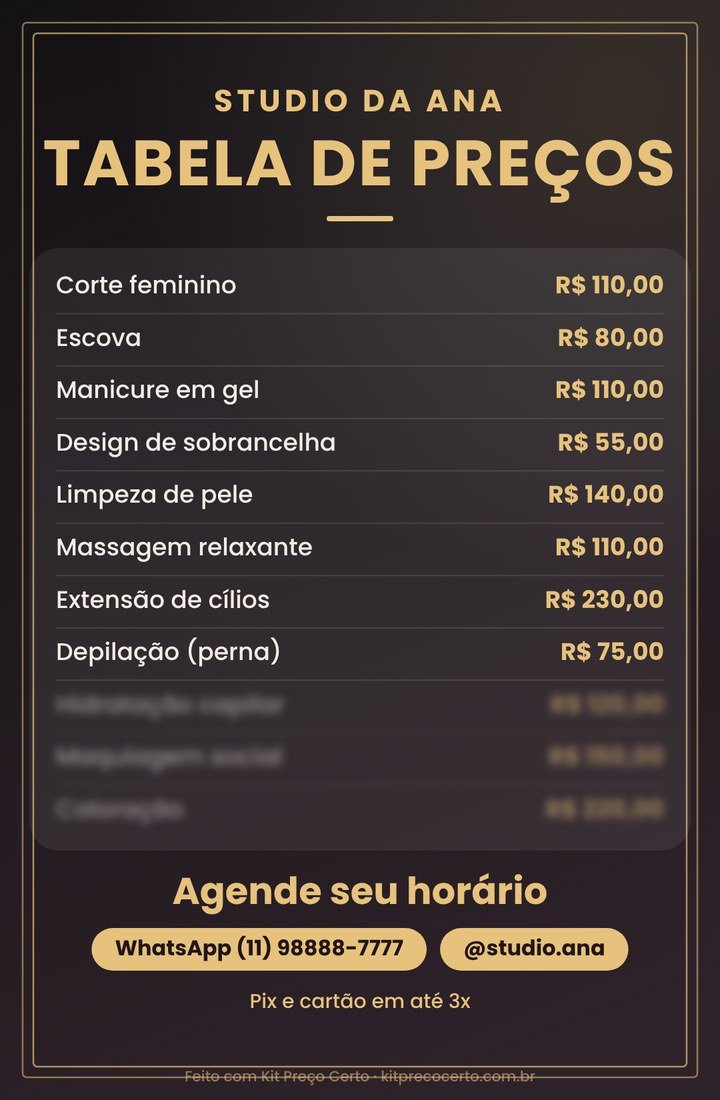
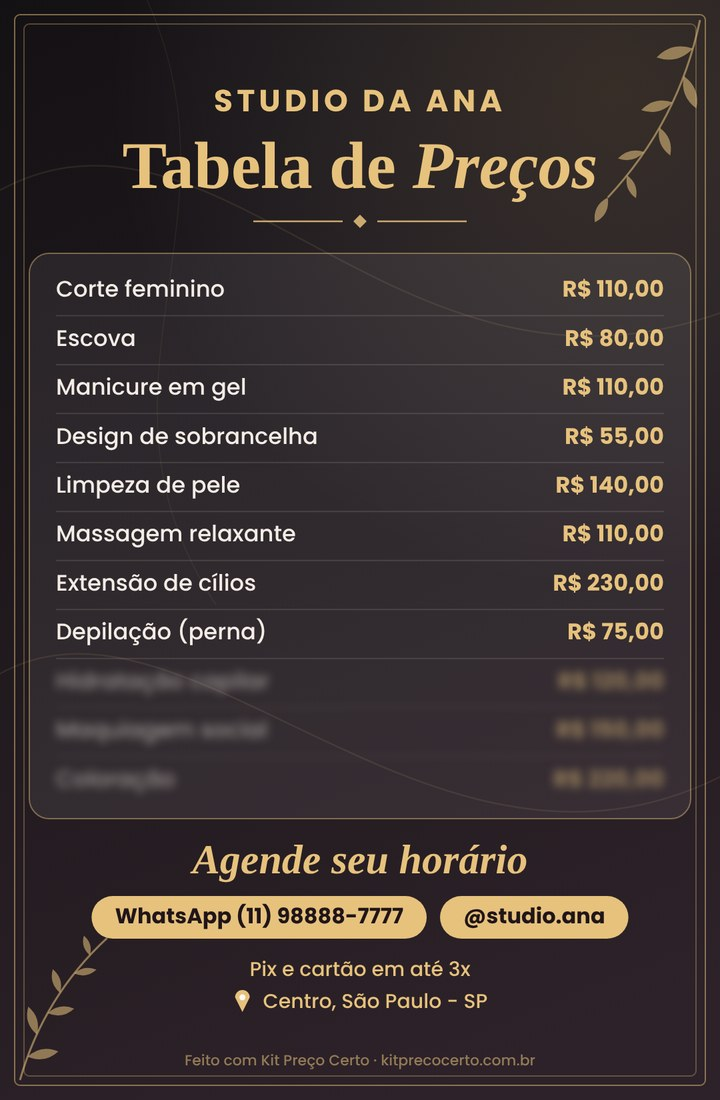
Tabela de preços: estilo elegante (título serifado, moldura fina, folhas), melhor com poucos serviços; imagens de exemplo regeneradas
Claude-Session: https://claude.ai/code/session_01VVXSWQenri3WwETC67snQx

Changed region(s): [[0.0, 0.0, 1.0, 0.9891]]

diff --git a/calculadora.html b/calculadora.html
@@ -6,7 +6,7 @@
 <meta name="theme-color" content="#C2185B">
 <link rel="icon" type="image/png" href="favicon.png"><link rel="apple-touch-icon" href="apple-touch-icon.png">
 <link rel="preconnect" href="https://fonts.googleapis.com"><link rel="preconnect" href="https://fonts.gstatic.com" crossorigin>
-<link href="https://fonts.googleapis.com/css2?family=Fredoka:wght@600;700&family=Poppins:wght@400;500;600;700;800&family=Dancing+Script:wght@700&display=swap" rel="stylesheet">
+<link href="https://fonts.googleapis.com/css2?family=Fredoka:wght@600;700&family=Poppins:wght@400;500;600;700;800&family=Dancing+Script:wght@700&family=Playfair+Display:ital,wght@0,500;0,600;0,700;1,500;1,600&display=swap" rel="stylesheet">
 <style>
 :root{--magenta:#C2185B;--magenta-d:#9C1049;--pink:#E91E78;--rose:#F4B6CC;--blush:#FCE9F0;--nude:#F8EDE6;--cream:#FFFAF7;--gold:#C9A24B;--gold-l:#F3E3B6;--ink:#3A0A26;--mut:#7A4A62;--line:#F0CFDB;--ok:#1b7a4a;--bad:#B00020;--yellow:#FFF3C4}
 *{box-sizing:border-box}
@@ -432,13 +432,19 @@ function CFG(){if(!S.cfg)S.cfg={t:'rosa',f:'f',ig:'',zap:'',ad:'',frase:'',pag:'
 function fitFont(g,txt,weight,size,maxW,min,fam){var f=size;g.font=weight+' '+f+'px '+fam;while(f>min&&g.measureText(txt).width>maxW){f-=2;g.font=weight+' '+f+'px '+fam;}return f;}
 function ellip(g,txt,maxW){if(g.measureText(txt).width<=maxW)return txt;while(txt.length>3&&g.measureText(txt+'…').width>maxW)txt=txt.slice(0,-1);return txt.trim()+'…';}
 function trk(g,px){if('letterSpacing' in g)g.letterSpacing=px+'px';}
-function deco(g,T,W,H){var d=T.deco,a=T.accent;g.save();
- if(d==='circles'){g.globalAlpha=.4;g.fillStyle='#fff';g.beginPath();g.arc(W*.94,H*.05,W*.28,0,6.2832);g.fill();g.globalAlpha=.55;g.strokeStyle=a;g.lineWidth=3;g.beginPath();g.arc(W*.05,H*.95,W*.17,0,6.2832);g.stroke();}
- else if(d==='frame'){g.globalAlpha=.6;g.strokeStyle=a;g.lineWidth=3;rr(g,34,34,W-68,H-68,30);g.stroke();}
- else if(d==='frame2'){g.globalAlpha=.55;g.strokeStyle=a;g.lineWidth=2.5;rr(g,34,34,W-68,H-68,6);g.stroke();g.globalAlpha=.7;rr(g,50,50,W-100,H-100,6);g.stroke();}
- else if(d==='duo'){g.fillStyle=a;g.globalAlpha=.16;g.beginPath();g.arc(W*.08,H*.06,W*.24,0,6.2832);g.fill();g.globalAlpha=.12;g.beginPath();g.arc(W*.2,H*.02,W*.2,0,6.2832);g.fill();g.globalAlpha=.14;g.beginPath();g.arc(W*.95,H*.96,W*.22,0,6.2832);g.fill();}
- else if(d==='arc'){g.fillStyle=a;g.globalAlpha=.16;g.beginPath();g.arc(W,H,W*.34,0,6.2832);g.fill();g.globalAlpha=.12;g.beginPath();g.arc(0,0,W*.26,0,6.2832);g.fill();}
- else if(d==='band'){g.fillStyle=a;g.globalAlpha=.18;g.fillRect(0,0,W,H*.05);g.globalAlpha=.35;g.fillRect(0,H*.05,W,5);g.globalAlpha=.18;g.fillRect(0,H*.95-5,W,5);g.fillRect(0,H*.95,W,H*.05);}
+function leaf(g,x,y,a,l,w){g.save();g.translate(x,y);g.rotate(a);g.beginPath();g.moveTo(0,0);g.quadraticCurveTo(l*.5,-w,l,0);g.quadraticCurveTo(l*.5,w,0,0);g.fill();g.restore();}
+function sprig(g,x,y,a,len){g.save();g.translate(x,y);g.rotate(a);g.lineWidth=3;g.beginPath();g.moveTo(0,0);g.quadraticCurveTo(len*.5,-len*.14,len,0);g.stroke();
+ for(var i=1;i<=6;i++){var t=i/7,px=len*t,py=-2*(1-t)*t*len*.14,sz=len*.2*(1-t*.45),sg=i%2?1:-1;leaf(g,px,py,sg*.85,sz,sz*.32);}
+ leaf(g,len,0,0,len*.14,len*.05);g.restore();}
+function deco(g,T,W,H){var a=T.accent,dark=(T.deco==='frame'||T.deco==='frame2');g.save();
+ g.lineWidth=2.5;g.strokeStyle=dark?a:'#fff';g.globalAlpha=dark?.10:.55;
+ g.beginPath();g.moveTo(-20,H*.18);g.bezierCurveTo(W*.3,H*.05,W*.55,H*.4,W+20,H*.28);g.stroke();
+ g.beginPath();g.moveTo(-20,H*.62);g.bezierCurveTo(W*.25,H*.5,W*.6,H*.85,W+20,H*.7);g.stroke();
+ g.lineWidth=1.5;g.globalAlpha*=.8;g.beginPath();g.moveTo(W*.2,-10);g.bezierCurveTo(W*.35,H*.2,W*.1,H*.35,W*.3,H*.55);g.stroke();
+ g.globalAlpha=.5;g.strokeStyle=a;g.lineWidth=2;rr(g,22,22,W-44,H-44,dark?8:26);g.stroke();
+ if(dark){g.globalAlpha=.3;rr(g,36,36,W-72,H-72,8);g.stroke();}
+ g.fillStyle=a;g.strokeStyle=a;g.globalAlpha=dark?.55:.4;
+ sprig(g,W-30,30,2.05,300);sprig(g,30,H-30,-1.02,250);
  g.restore();}
 function draw(l){
   var c=CFG(),T=THEMES[c.t]||THEMES.rosa,W=1080,H=c.f==='s'?1920:1350,PAD=64;
@@ -452,15 +458,18 @@ function draw(l){
     var sc=Math.max(2*r/LOGO.width,2*r/LOGO.height),iw=LOGO.width*sc,ih=LOGO.height*sc;g.drawImage(LOGO,cx-iw/2,cy-ih/2,iw,ih);g.restore();
     g.strokeStyle=T.accent;g.lineWidth=6;g.beginPath();g.arc(cx,cy,r,0,6.2832);g.stroke();y+=2*r+26;}
   if(S.studio){g.fillStyle=T.sub;var st=S.studio.toUpperCase(),fs0=fitFont(g,st,'600',H>1500?46:40,W-2*PAD,26,P);g.font='600 '+fs0+'px '+P;trk(g,6);g.fillText(st,W/2,y+fs0*.55);trk(g,0);y+=fs0+30;}
-  g.fillStyle=T.title;var tt='TABELA DE PREÇOS',tf=fitFont(g,tt,'800',H>1500?96:84,W-2*PAD,46,P);g.font='800 '+tf+'px '+P;trk(g,3);g.fillText(tt,W/2,y+tf*.5);trk(g,0);y+=tf+22;
-  g.fillStyle=T.accent;rr(g,W/2-50,y,100,8,4);g.fill();y+=46;
+  var SF='"Playfair Display", Georgia, serif',t1='Tabela de ',t2='Preços',tf=H>1500?100:88,maxT=W-2*PAD-20;
+  while(tf>48){g.font='600 '+tf+'px '+SF;var wa=g.measureText(t1).width;g.font='italic 600 '+tf+'px '+SF;if(wa+g.measureText(t2).width<=maxT)break;tf-=2;}
+  g.font='600 '+tf+'px '+SF;var w1=g.measureText(t1).width;g.font='italic 600 '+tf+'px '+SF;var w2=g.measureText(t2).width,tx=(W-w1-w2)/2;g.textAlign='left';
+  g.font='600 '+tf+'px '+SF;g.fillStyle=T.title;g.fillText(t1,tx,y+tf*.5);g.font='italic 600 '+tf+'px '+SF;g.fillStyle=T.accent;g.fillText(t2,tx+w1,y+tf*.5);g.textAlign='center';y+=tf+20;
+  g.save();g.strokeStyle=T.accent;g.fillStyle=T.accent;g.globalAlpha=.85;g.lineWidth=2.5;g.beginPath();g.moveTo(W/2-160,y+6);g.lineTo(W/2-26,y+6);g.moveTo(W/2+26,y+6);g.lineTo(W/2+160,y+6);g.stroke();g.beginPath();g.moveTo(W/2,y-4);g.lineTo(W/2+10,y+6);g.lineTo(W/2,y+16);g.lineTo(W/2-10,y+6);g.closePath();g.fill();g.restore();y+=52;
   // rodape (altura)
   var pills=[];if(c.zap)pills.push('WhatsApp '+c.zap);if(c.ig)pills.push(c.ig);
   var fh=44;if(c.frase)fh+=84;if(pills.length)fh+=(pills.length===2?160:90);if(c.pag)fh+=48;if(c.ad)fh+=48;if(c.obs)fh+=44;
   var bottom=H-fh-30,top=y+10,avail=bottom-top;
   var n=l.length,cols=n>12?2:1,rpc=Math.ceil(n/cols),gap=36,colW=(W-2*PAD-(cols-1)*gap)/cols;
-  var big=H>1500,rh=Math.min(cols===2?(big?110:86):(big?132:100),(avail-40)/rpc),fs=Math.max(22,Math.min(cols===2?(big?42:36):(big?54:46),rh*.46));
-  var cardH=rh*rpc+40;g.save();g.shadowColor='rgba(0,0,0,.14)';g.shadowBlur=44;g.shadowOffsetY=16;g.fillStyle=T.card;rr(g,PAD-20,top-8,W-2*PAD+40,cardH,44);g.fill();g.restore();
+  var big=H>1500,rh=Math.min(cols===2?(big?110:86):(n<=5?(big?170:130):(big?132:100)),(avail-40)/rpc),fs=Math.max(22,Math.min(cols===2?(big?42:36):(big?54:46),rh*.46));
+  var cardH=rh*rpc+40;top+=Math.max(0,Math.round((avail-cardH-30)/2*.8));g.save();g.shadowColor='rgba(0,0,0,.10)';g.shadowBlur=36;g.shadowOffsetY=12;g.fillStyle=T.card;rr(g,PAD-20,top-8,W-2*PAD+40,cardH,30);g.fill();g.restore();g.save();g.strokeStyle=T.accent;g.globalAlpha=.45;g.lineWidth=2;rr(g,PAD-20,top-8,W-2*PAD+40,cardH,30);g.stroke();g.restore();
   for(var i=0;i<n;i++){
     var col=Math.floor(i/rpc),row=i%rpc,x0=PAD+col*(colW+gap)+(cols===1?20:6),x1=PAD+col*(colW+gap)+colW-(cols===1?20:6),yy=top+12+row*rh+rh/2;
     var price=brl(l[i].p);g.font='700 '+fs+'px '+P;var pw=g.measureText(price).width;
@@ -470,14 +479,14 @@ function draw(l){
   }
   // rodape
   var fy=bottom+24;g.textAlign='center';
-  if(c.frase){g.fillStyle=T.title;var ff=fitFont(g,c.frase,'700',56,W-2*PAD,34,P);g.font='700 '+ff+'px '+P;g.fillText(c.frase,W/2,fy+34);fy+=84;}
+  if(c.frase){g.fillStyle=T.title;var ff=fitFont(g,c.frase,'italic 600',62,W-2*PAD,36,SF);g.font='italic 600 '+ff+'px '+SF;g.fillText(c.frase,W/2,fy+34);fy+=84;}
   if(pills.length){g.font='600 32px '+P;var ws=pills.map(function(t){return g.measureText(t).width+70;}),tot=ws.reduce(function(a,b){return a+b;},0)+(pills.length-1)*20;
     if(tot<=W-2*PAD){var px=(W-tot)/2;pills.forEach(function(t,k){g.fillStyle=T.pill;rr(g,px,fy,ws[k],64,32);g.fill();g.fillStyle=T.pillText;g.textAlign='center';g.fillText(t,px+ws[k]/2,fy+33);px+=ws[k]+20;});fy+=90;}
     else{var w=Math.min(W-2*PAD,Math.max.apply(null,ws));pills.forEach(function(t){g.fillStyle=T.pill;rr(g,(W-w)/2,fy,w,64,32);g.fill();g.fillStyle=T.pillText;g.textAlign='center';g.fillText(ellip(g,t,w-40),W/2,fy+33);fy+=76;});fy+=14;}}
   if(c.pag){g.fillStyle=T.foot;g.font='500 30px '+P;g.fillText(ellip(g,c.pag,W-2*PAD),W/2,fy+22);fy+=48;}
   if(c.ad){g.font='500 30px '+P;var adt=ellip(g,c.ad,W-2*PAD-70),tw=g.measureText(adt).width,sx=(W-tw-46)/2;g.fillStyle=T.accent;g.beginPath();g.moveTo(sx+4,fy+14);g.arc(sx+15,fy+14,11,Math.PI,0);g.lineTo(sx+15,fy+36);g.closePath();g.fill();g.fillStyle='rgba(255,255,255,.92)';g.beginPath();g.arc(sx+15,fy+14,4.5,0,6.2832);g.fill();g.fillStyle=T.foot;g.textAlign='left';g.fillText(adt,sx+46,fy+22);g.textAlign='center';fy+=48;}
   if(c.obs){g.fillStyle=T.foot;g.globalAlpha=.8;g.font='italic 400 26px '+P;g.fillText(ellip(g,c.obs,W-2*PAD),W/2,fy+20);g.globalAlpha=1;fy+=44;}
-  g.fillStyle=T.foot;g.globalAlpha=.55;g.font='500 22px '+P;g.fillText('Feito com Kit Preço Certo · kitprecocerto.com.br',W/2,H-34);g.globalAlpha=1;
+  g.fillStyle=T.foot;g.globalAlpha=.55;g.font='500 22px '+P;g.fillText('Feito com Kit Preço Certo · kitprecocerto.com.br',W/2,H-58);g.globalAlpha=1;
   return cv;
 }
 function pv(){
@@ -486,7 +495,7 @@ function pv(){
   g.drawImage(draw(l),0,0,W,H);
 }
 var pvT=null;function pvSoon(){clearTimeout(pvT);pvT=setTimeout(pv,120);}
-function fontsReady(cb){var f=function(){cb();};if(document.fonts&&document.fonts.load){Promise.all([document.fonts.load('700 40px Poppins'),document.fonts.load('500 40px Poppins'),document.fonts.load('600 40px Poppins'),document.fonts.load('700 60px "Dancing Script"')]).then(f,f);}else f();}
+function fontsReady(cb){var f=function(){cb();};if(document.fonts&&document.fonts.load){Promise.all([document.fonts.load('700 40px Poppins'),document.fonts.load('500 40px Poppins'),document.fonts.load('600 40px Poppins'),document.fonts.load('700 60px "Dancing Script"'),document.fonts.load('600 60px "Playfair Display"'),document.fonts.load('italic 600 60px "Playfair Display"')]).then(f,f);}else f();}
 function buildThemes(){var c=CFG(),h='';Object.keys(THEMES).forEach(function(k){var T=THEMES[k];h+='<button type="button" role="radio" data-t="'+k+'" aria-checked="'+(c.t===k)+'" class="'+(c.t===k?'on':'')+'"><i style="background:linear-gradient(135deg,'+T.bg[0]+','+T.bg[2]+');box-shadow:inset 0 0 0 3px '+T.accent+'"></i>'+T.n+'</button>';});$('themes').innerHTML=h;
   [].forEach.call($('fmts').children,function(b){b.classList.toggle('on',b.getAttribute('data-f')===c.f);});
   $('ig').value=c.ig||'';$('zap').value=c.zap||'';$('frase').value=c.frase||'';$('pag').value=c.pag||'';$('obs').value=c.obs||'';$('ad').value=c.ad||'';}
@@ -516,7 +525,7 @@ $('img').addEventListener('click',function(){
     if(!b){toast('Não consegui gerar a imagem');return;}
     showImg(cv,b);
   },'image/png');};
-  if(document.fonts&&document.fonts.load){Promise.all([document.fonts.load('700 40px Poppins'),document.fonts.load('500 40px Poppins'),document.fonts.load('600 40px Poppins'),document.fonts.load('700 60px "Dancing Script"')]).then(go1,go1);}else go1();
+  if(document.fonts&&document.fonts.load){Promise.all([document.fonts.load('700 40px Poppins'),document.fonts.load('500 40px Poppins'),document.fonts.load('600 40px Poppins'),document.fonts.load('700 60px "Dancing Script"'),document.fonts.load('600 60px "Playfair Display"'),document.fonts.load('italic 600 60px "Playfair Display"')]).then(go1,go1);}else go1();
 });
 
 /* Seleciona o conteúdo ao focar (facilita trocar o valor no celular) */

diff --git a/index.html b/index.html
@@ -68,7 +68,7 @@
   </div>
   <div class="hero-row">
     <figure class="hero-tab" id="tp" aria-label="Exemplos da imagem da tabela de preços que a calculadora gera (valores de exemplo)">
-      <div class="tp-stage"><img src="tab-rosa.jpg?v=3" width="720" height="1100" alt="Tabela de preços no estilo Rosa, com serviços e valores de exemplo" class="on"><img src="tab-vinho.jpg?v=3" width="720" height="1100" alt="Tabela de preços no estilo Vinho e dourado, com serviços e valores de exemplo" class="" loading="lazy"><img src="tab-preto.jpg?v=3" width="720" height="1100" alt="Tabela de preços no estilo Preto e dourado, com serviços e valores de exemplo" class="" loading="lazy"><img src="tab-lilas.jpg?v=3" width="720" height="1100" alt="Tabela de preços no estilo Lilás, com serviços e valores de exemplo" class="" loading="lazy"><img src="tab-verde.jpg?v=3" width="720" height="1100" alt="Tabela de preços no estilo Verde sálvia, com serviços e valores de exemplo" class="" loading="lazy"><img src="tab-nude.jpg?v=3" width="720" height="1100" alt="Tabela de preços no estilo Nude, com serviços e valores de exemplo" class="" loading="lazy"></div>
+      <div class="tp-stage"><img src="tab-rosa.jpg?v=4" width="720" height="1100" alt="Tabela de preços no estilo Rosa, com serviços e valores de exemplo" class="on"><img src="tab-vinho.jpg?v=4" width="720" height="1100" alt="Tabela de preços no estilo Vinho e dourado, com serviços e valores de exemplo" class="" loading="lazy"><img src="tab-preto.jpg?v=4" width="720" height="1100" alt="Tabela de preços no estilo Preto e dourado, com serviços e valores de exemplo" class="" loading="lazy"><img src="tab-lilas.jpg?v=4" width="720" height="1100" alt="Tabela de preços no estilo Lilás, com serviços e valores de exemplo" class="" loading="lazy"><img src="tab-verde.jpg?v=4" width="720" height="1100" alt="Tabela de preços no estilo Verde sálvia, com serviços e valores de exemplo" class="" loading="lazy"><img src="tab-nude.jpg?v=4" width="720" height="1100" alt="Tabela de preços no estilo Nude, com serviços e valores de exemplo" class="" loading="lazy"></div>
       <div class="tp-dots" role="radiogroup" aria-label="Escolha o estilo da tabela"><span class="tp-d on" role="radio" tabindex="0" aria-checked="true" aria-label="Estilo Rosa" data-i="0" style="background:linear-gradient(135deg,#FBD3E2,#E91E78)"></span><span class="tp-d" role="radio" tabindex="0" aria-checked="false" aria-label="Estilo Vinho e dourado" data-i="1" style="background:linear-gradient(135deg,#8a1a50,#f6d27a)"></span><span class="tp-d" role="radio" tabindex="0" aria-checked="false" aria-label="Estilo Preto e dourado" data-i="2" style="background:linear-gradient(135deg,#211a1f,#e7c27d)"></span><span class="tp-d" role="radio" tabindex="0" aria-checked="false" aria-label="Estilo Lilás" data-i="3" style="background:linear-gradient(135deg,#E5CBF2,#8e44ad)"></span><span class="tp-d" role="radio" tabindex="0" aria-checked="false" aria-label="Estilo Verde sálvia" data-i="4" style="background:linear-gradient(135deg,#D8E7D4,#4f8a5b)"></span><span class="tp-d" role="radio" tabindex="0" aria-checked="false" aria-label="Estilo Nude" data-i="5" style="background:linear-gradient(135deg,#F1DEC8,#b0693f)"></span></div>
       <p class="tp-name" id="tpn">Estilo: Rosa</p>
       <figcaption>Você escolhe entre 6 estilos de cor. Valores de exemplo.</figcaption>
@@ -94,7 +94,7 @@
       <div class="duo-ic"><svg viewBox="0 0 24 24" fill="none" stroke="currentColor" stroke-width="1.8" stroke-linecap="round" stroke-linejoin="round"><rect x="7" y="2.5" width="10" height="19" rx="2.5"/><path d="M11 18.5h2"/></svg></div>
       <h3>Calculadora no celular</h3>
       <p>Descubra o preço certo de cada serviço e transforme em uma tabela bonita, pronta para divulgar.</p>
-      <div class="duo-thumbs" aria-hidden="true"><img src="tab-rosa.jpg?v=3" width="720" height="1100" alt="" loading="lazy"><img src="tab-vinho.jpg?v=3" width="720" height="1100" alt="" loading="lazy"><img src="tab-nude.jpg?v=3" width="720" height="1100" alt="" loading="lazy"><span>6 estilos de cor</span></div>
+      <div class="duo-thumbs" aria-hidden="true"><img src="tab-rosa.jpg?v=4" width="720" height="1100" alt="" loading="lazy"><img src="tab-vinho.jpg?v=4" width="720" height="1100" alt="" loading="lazy"><img src="tab-nude.jpg?v=4" width="720" height="1100" alt="" loading="lazy"><span>6 estilos de cor</span></div>
       <ul>
         <li>Calcula o preço de cada serviço, com lucro</li>
         <li>Você escolhe a cor e coloca o seu nome, Instagram e WhatsApp</li>

diff --git a/obrigado.html b/obrigado.html
@@ -18,12 +18,12 @@
 <p class="ob-k">Seu celular é a ferramenta principal</p>
 <h2 class="ob-h">Escolha o estilo da sua tabela de preços</h2>
 <div class="ob-strip" aria-label="6 estilos de tabela de preços (valores de exemplo)">
-<figure><img src="tab-rosa.jpg?v=3" width="720" height="1100" alt="Estilo Rosa" loading="lazy"><figcaption>Rosa</figcaption></figure>
-<figure><img src="tab-vinho.jpg?v=3" width="720" height="1100" alt="Estilo Vinho e dourado" loading="lazy"><figcaption>Vinho</figcaption></figure>
-<figure><img src="tab-preto.jpg?v=3" width="720" height="1100" alt="Estilo Preto e dourado" loading="lazy"><figcaption>Preto</figcaption></figure>
-<figure><img src="tab-lilas.jpg?v=3" width="720" height="1100" alt="Estilo Lilás" loading="lazy"><figcaption>Lilás</figcaption></figure>
-<figure><img src="tab-verde.jpg?v=3" width="720" height="1100" alt="Estilo Verde sálvia" loading="lazy"><figcaption>Verde</figcaption></figure>
-<figure><img src="tab-nude.jpg?v=3" width="720" height="1100" alt="Estilo Nude" loading="lazy"><figcaption>Nude</figcaption></figure>
+<figure><img src="tab-rosa.jpg?v=4" width="720" height="1100" alt="Estilo Rosa" loading="lazy"><figcaption>Rosa</figcaption></figure>
+<figure><img src="tab-vinho.jpg?v=4" width="720" height="1100" alt="Estilo Vinho e dourado" loading="lazy"><figcaption>Vinho</figcaption></figure>
+<figure><img src="tab-preto.jpg?v=4" width="720" height="1100" alt="Estilo Preto e dourado" loading="lazy"><figcaption>Preto</figcaption></figure>
+<figure><img src="tab-lilas.jpg?v=4" width="720" height="1100" alt="Estilo Lilás" loading="lazy"><figcaption>Lilás</figcaption></figure>
+<figure><img src="tab-verde.jpg?v=4" width="720" height="1100" alt="Estilo Verde sálvia" loading="lazy"><figcaption>Verde</figcaption></figure>
+<figure><img src="tab-nude.jpg?v=4" width="720" height="1100" alt="Estilo Nude" loading="lazy"><figcaption>Nude</figcaption></figure>
 </div>
 <p class="ob-hint">Deslize para ver os 6 estilos →</p>
 <a class="btn" id="gs" href="calculadora.html" target="_blank" rel="noopener">Criar a minha tabela agora</a>
